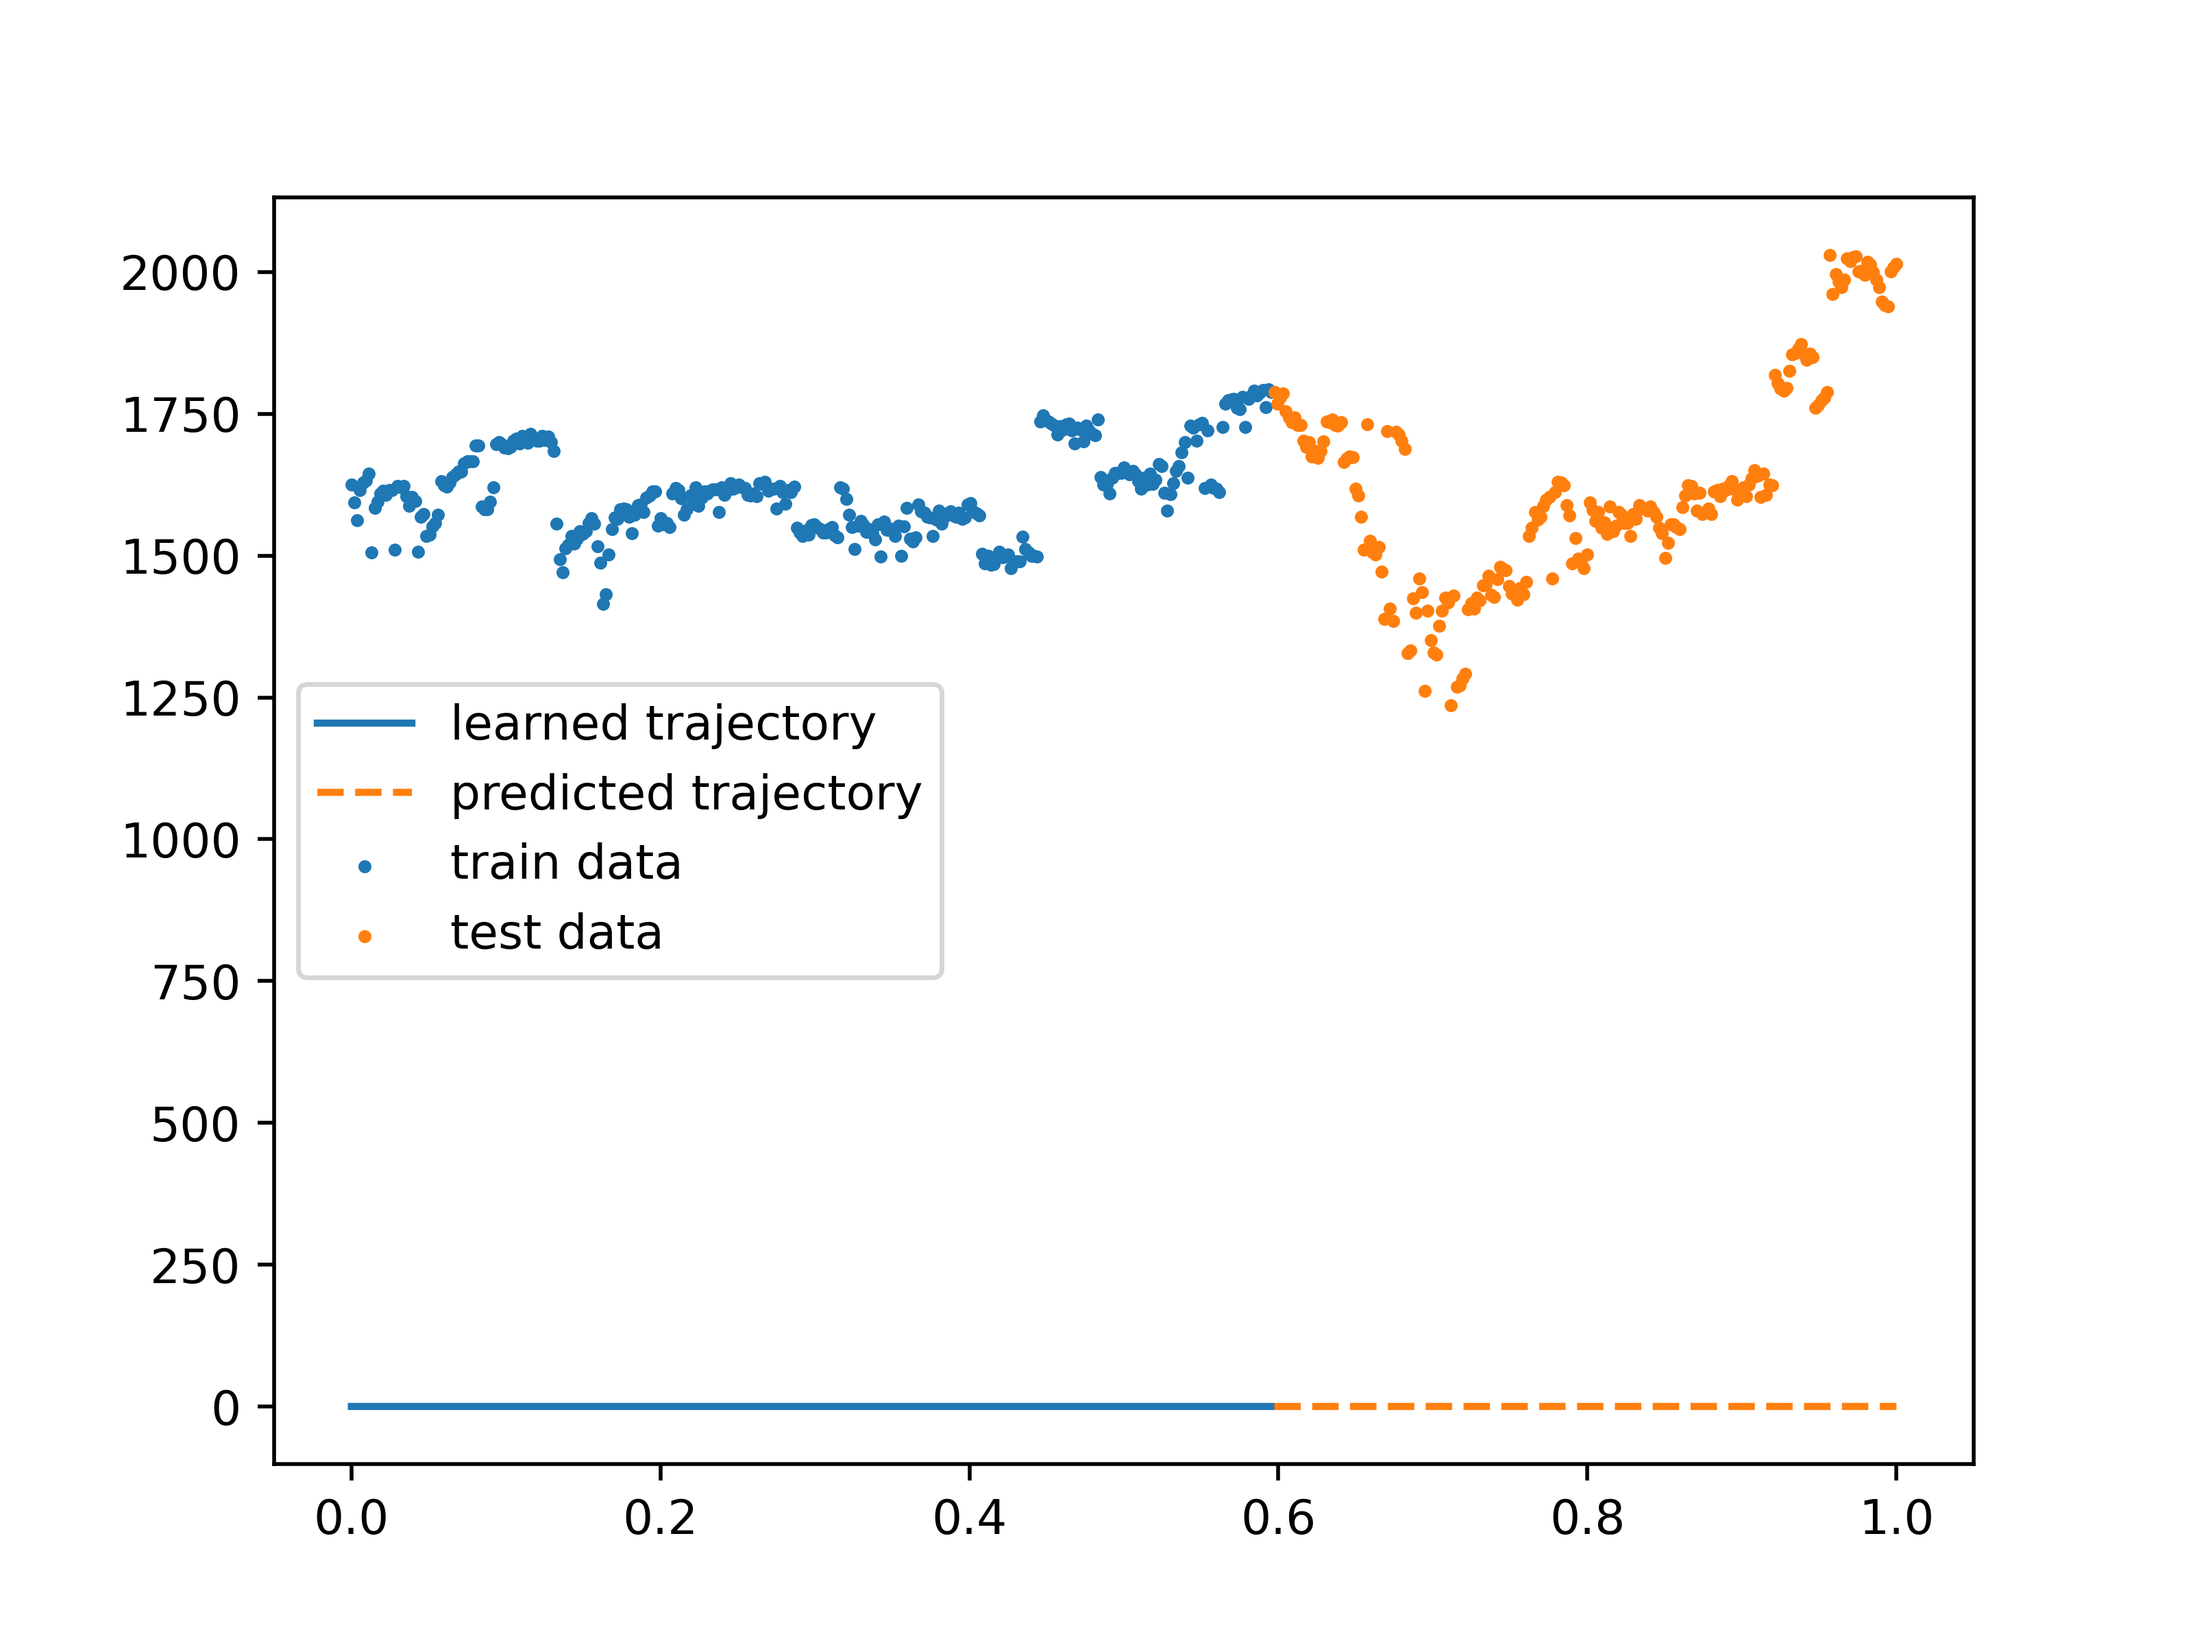
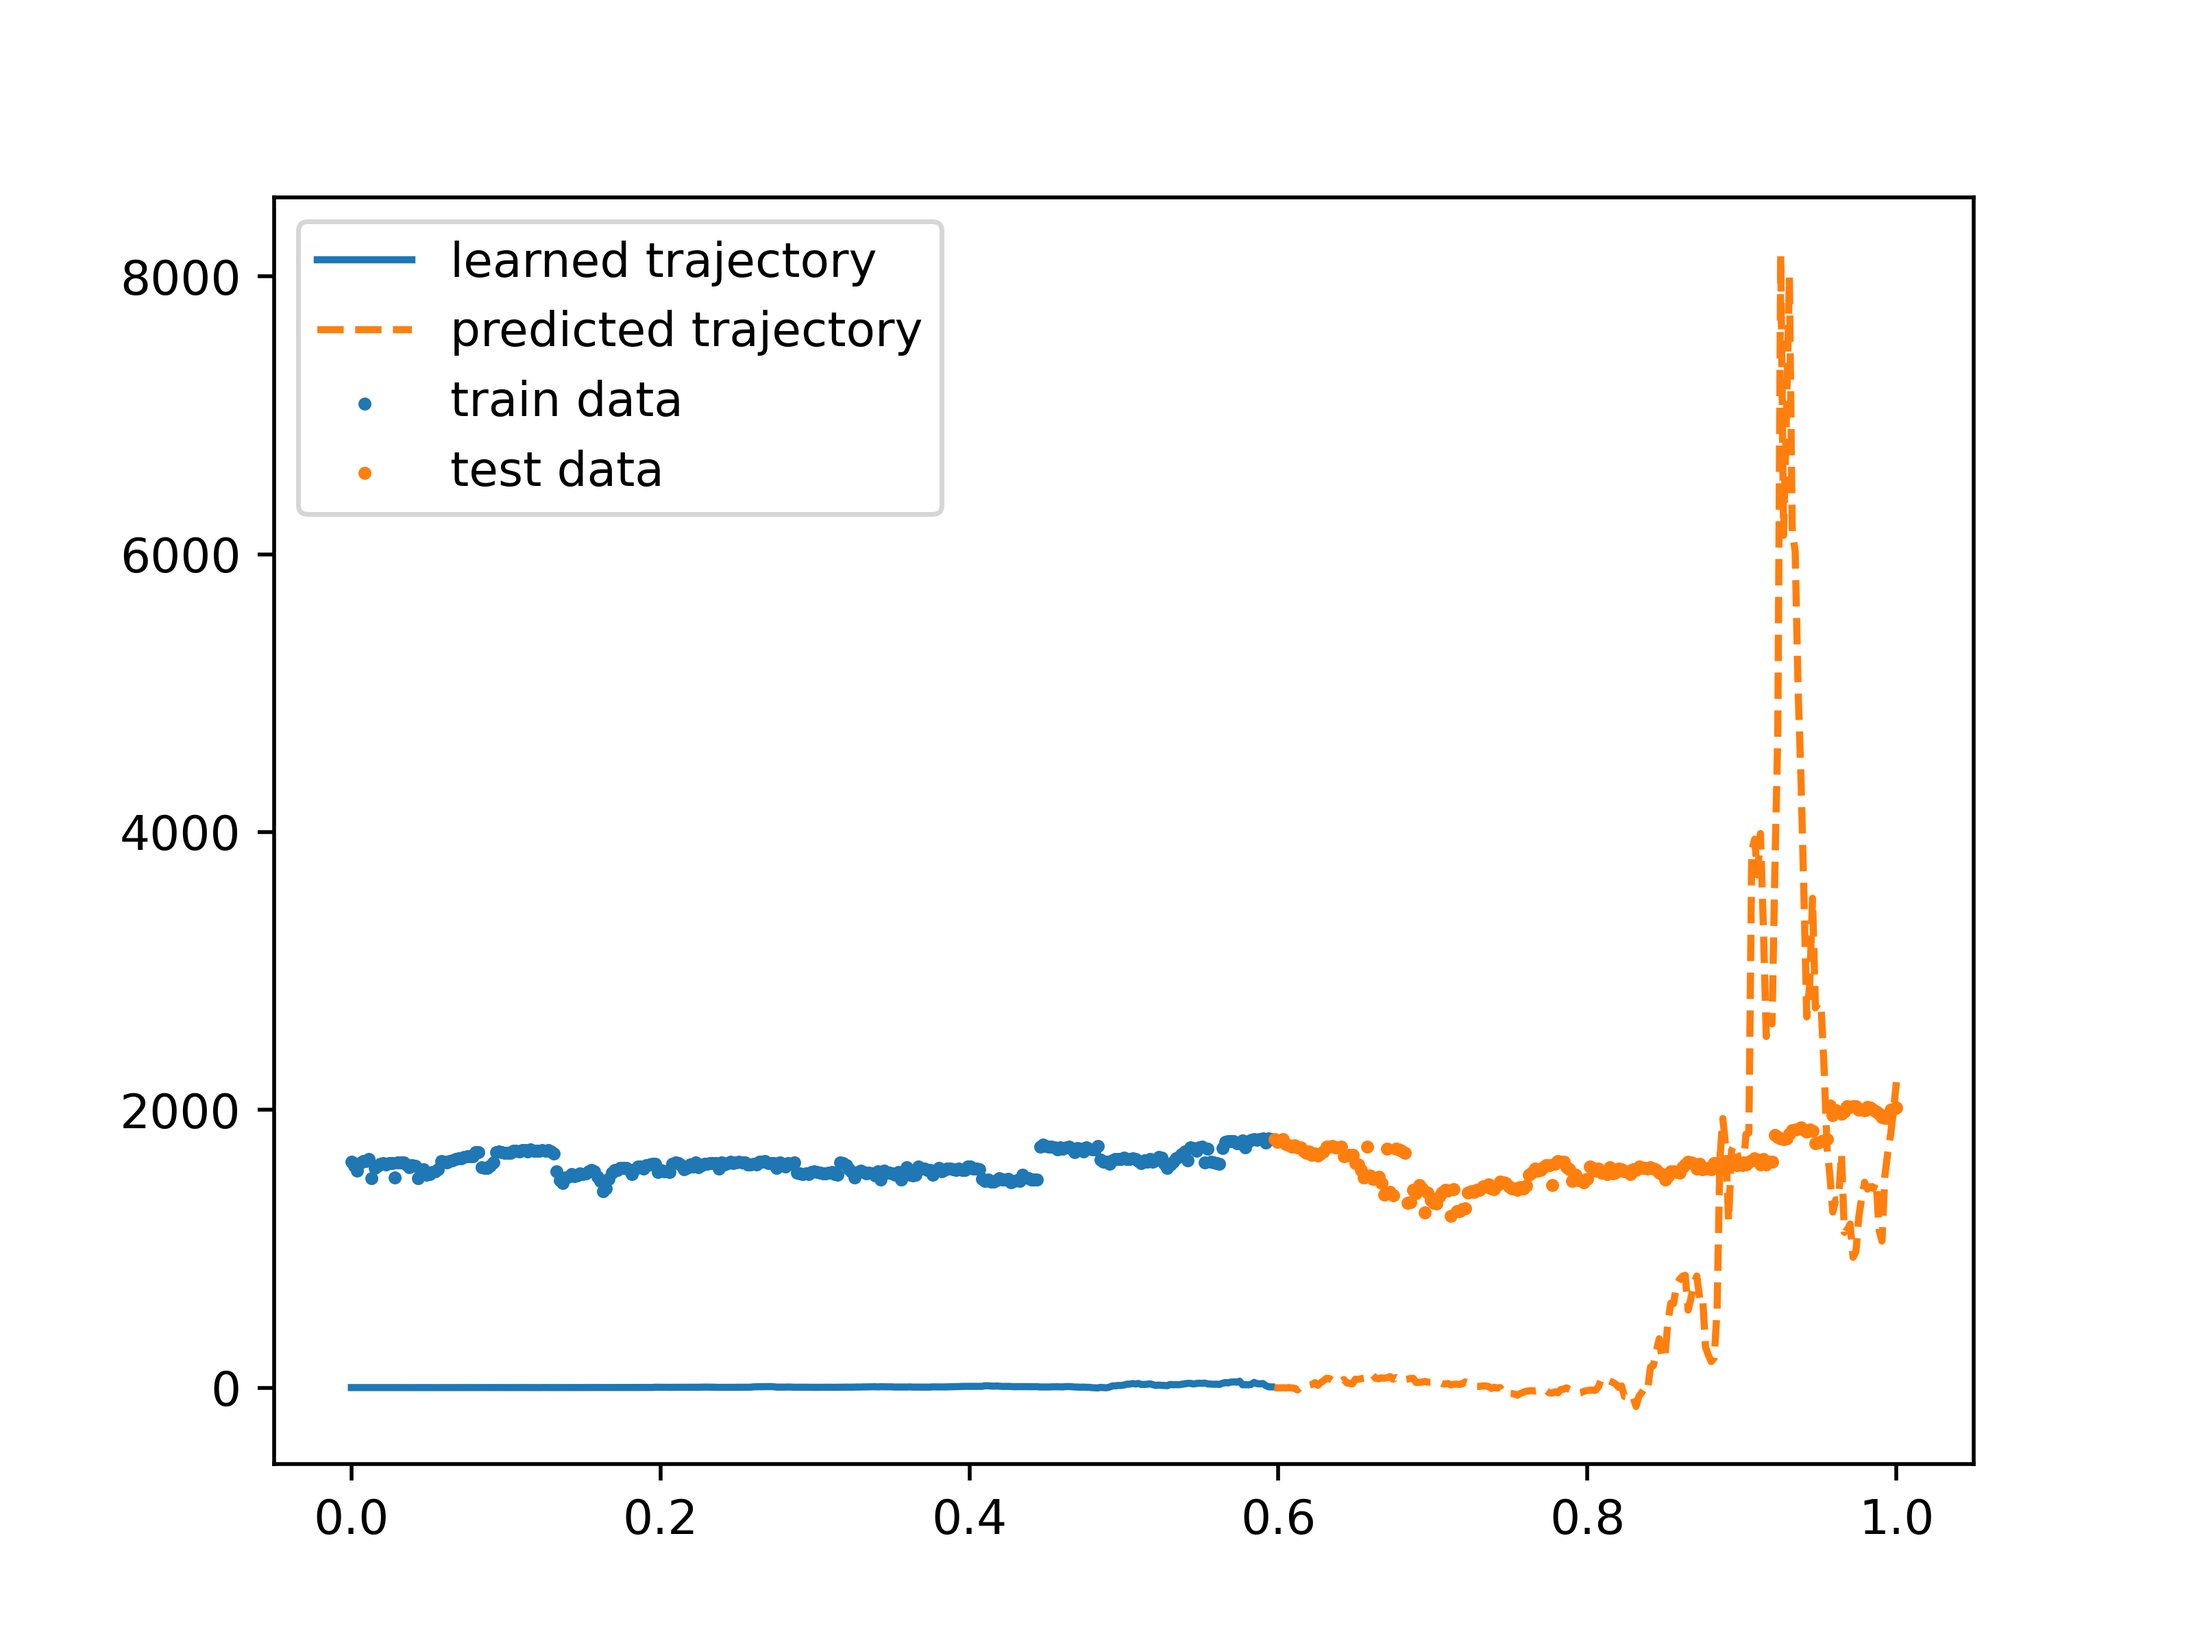
Minor change

diff --git a/fsde_solver.py b/fsde_solver.py
@@ -29,12 +29,12 @@ def fsdeint(hurst, y0, ts):
         ts = ts.to(device).detach().numpy().copy()
         y0 = y0.to(device).detach().numpy().copy()
     
-    t0 = 0
+    t0 = float(ts[0])
     t_end = float(ts[-1])
-    nsteps = 1000
+    nsteps = 500
     y_samples = []
     
-    B = FBM(n=nsteps, hurst=hurst, length=t_end).fbm()
+    B = FBM(n=nsteps, hurst=hurst, length=t_end-t0).fbm()
     dB = np.diff(B)
     dt = (t_end - t0)/nsteps
     ts = ts * nsteps / t_end
@@ -48,25 +48,25 @@ def fsdeint(hurst, y0, ts):
         y_sample = y[ts]
         y_samples.append(y_sample)
     y_samples = np.stack(y_samples, axis=0)
-    y_samples = torch.from_numpy(y_samples).float().to(device)
+    y_samples.tolist()
+    y_samples = torch.tensor(y_samples, requires_grad=True)
+    #y_samples = torch.from_numpy(y_samples).float().to(device)
     
     return y_samples
 
 def experiment():
-    list = [1, 2, 3, 5, 6, 10]
-    ts = torch.tensor(list)
-    y0 = torch.ones(3, 4)
-    #test = y0
-    #print(test.size(0))
-    #y0 = torch.ones(4)
-    y = fsdeint(hurst=0.6, y0=y0, ts=ts)
-    print(y)
-    #y= y[1].detach().numpy().copy()
-    #print(type(y))
-
-    #plt.plot(ts, y, label="solution")
-    #plt.legend()
-    #plt.show()
+    list = [0, 1, 2, 3, 5, 6, 10]
+    list = range(100)
+    with torch.no_grad():
+        ts = torch.tensor(list)
+        y0 = torch.ones(3, 4)
+    y = fsdeint(hurst=0.5, y0=y0, ts=ts)
+    print(y, y.size())
+    y= y.detach().numpy().copy()
+    
+    plt.plot(ts, y[0,:,1], label="solution")
+    plt.legend()
+    plt.show()
 
 #experiment()
 

diff --git a/train_SDE.py b/train_SDE.py
@@ -73,11 +73,11 @@ if __name__ == '__main__':
     # generate TOPIX data
     from data import get_TOPIX_data
     sample_trajs, train_data, test_data, train_ts, test_ts = get_TOPIX_data(
-        batch_dim=batch_dim,
-        start=start,
-        stop=stop,
-        noise_std=noise_std
-    )
+        batch_dim=batch_dim)
+#        start=start,
+#        stop=stop,
+#        noise_std=noise_std
+#    )
     sample_trajs = torch.from_numpy(sample_trajs).float().to(device)
     train_ts = torch.from_numpy(train_ts).float().to(device)
     test_ts = torch.from_numpy(test_ts).float().to(device)

diff --git a/train_fSDE.py b/train_fSDE.py
@@ -175,7 +175,7 @@ if __name__ == '__main__':
             #z0 = torch.full((batch_size, state_size), z0[0])
 
             zs_learn = fsdeint(hurst=args.hurst, y0=z0, ts=train_ts)
-            zs_pred = fsdeint(hurst=args.hurst, y0=zs_learn[:,-1,:], ts=test_ts)
+            zs_pred = fsdeint(hurst=args.hurst, y0=zs_learn[:,-1,:], ts=test_ts-train_ts[-1])
             xs_learn = dec(zs_learn[0,:,:])
             xs_pred = dec(zs_pred[0,:,:])
             

diff --git a/data.py b/data.py
@@ -107,7 +107,7 @@ def generate_spiral2d(nspiral=2,
 
 def get_TOPIX_data(batch_dim=10,
                       start=0.,
-                      stop=1,  # approximately equal to 6pi
+                      stop=10, 
                       noise_std=10):
     """Parametric formula for 2d spiral is `r = a + b * theta`.
     Args:
